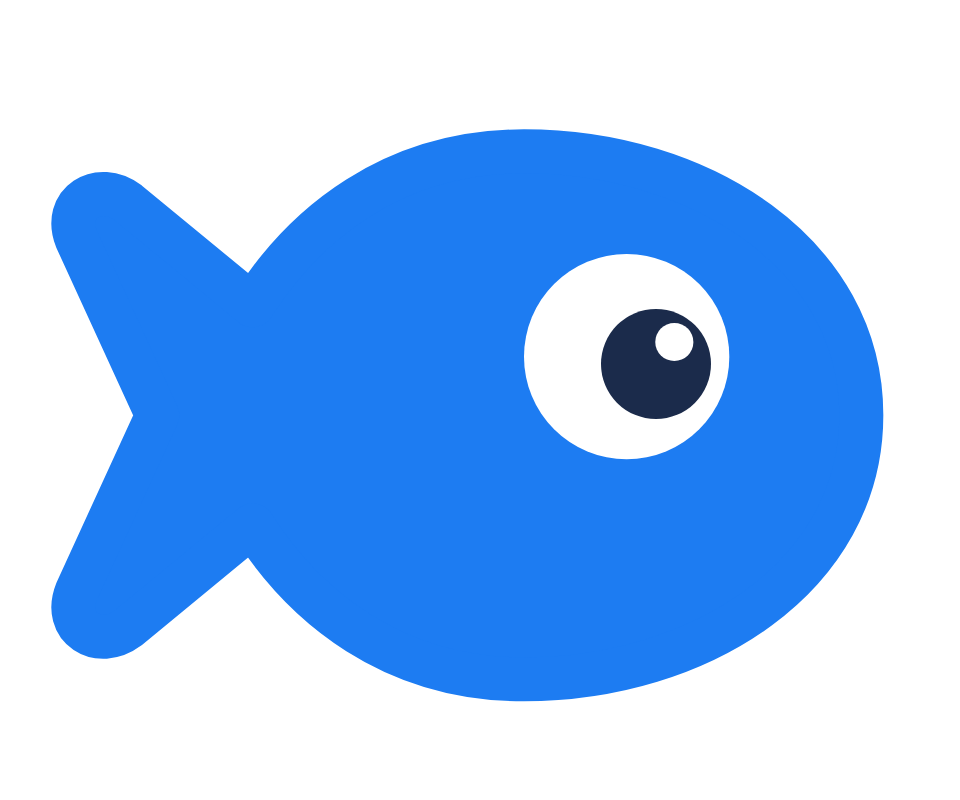
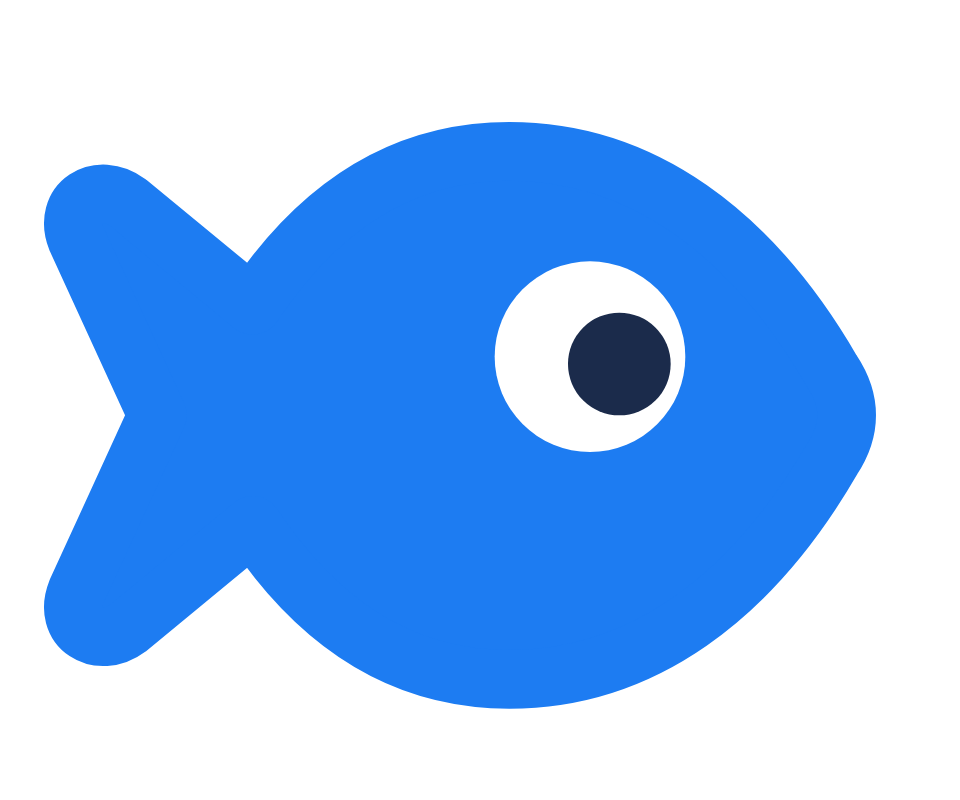
Make fish mascot pointier and remove eye shine
Claude-Session: https://claude.ai/code/session_01QRYSTcqEkAG2ohToCedSbn

diff --git a/index.html b/index.html
@@ -43,7 +43,7 @@ footer{padding:20px 24px;border-top:2px solid var(--line);text-align:center;font
 <body>
 <header><span class="brand">Bopli</span></header>
 <main>
-  <svg class="mascot" aria-hidden="true" viewBox="0 0 120 100"> <path d="M112 52C112 30 90 16 66 16C48 16 36 26 29 37L12 23C8 20 3 23 5 28L16 52L5 76C3 81 8 84 12 81L29 67C36 78 48 88 66 88C90 88 112 74 112 52Z" fill="#1D7CF2" stroke="#1D7CF2" stroke-width="6" stroke-linejoin="round"/> <circle cx="80" cy="44" r="14" fill="#fff"/> <circle cx="84" cy="45" r="7.5" fill="#1B2B4B"/> <circle cx="86.5" cy="42" r="2.6" fill="#fff"/> </svg>
+  <svg class="mascot" aria-hidden="true" viewBox="0 0 120 100"> <path d="M108 46C97 27 82 16 64 16C48 16 37 25 29 37L12 23C8 20 3 23 5 28L16 52L5 76C3 81 8 84 12 81L29 67C37 79 48 88 64 88C82 88 97 77 108 58Q112 52 108 46Z" fill="#1D7CF2" stroke="#1D7CF2" stroke-width="8" stroke-linejoin="round"/> <circle cx="75" cy="44" r="13" fill="#fff"/> <circle cx="79" cy="45" r="7" fill="#1B2B4B"/> </svg>
   <h1>Jedna fotka ráno.<br>Celý deň spolu.</h1>
   <p class="lead">Každé ráno sa odfotíš a tvoja rodina a kamaráti ťa celý deň vidia vo widgete na ploche telefónu. Čoskoro pre iPhone.</p>
   <form class="join" novalidate>
